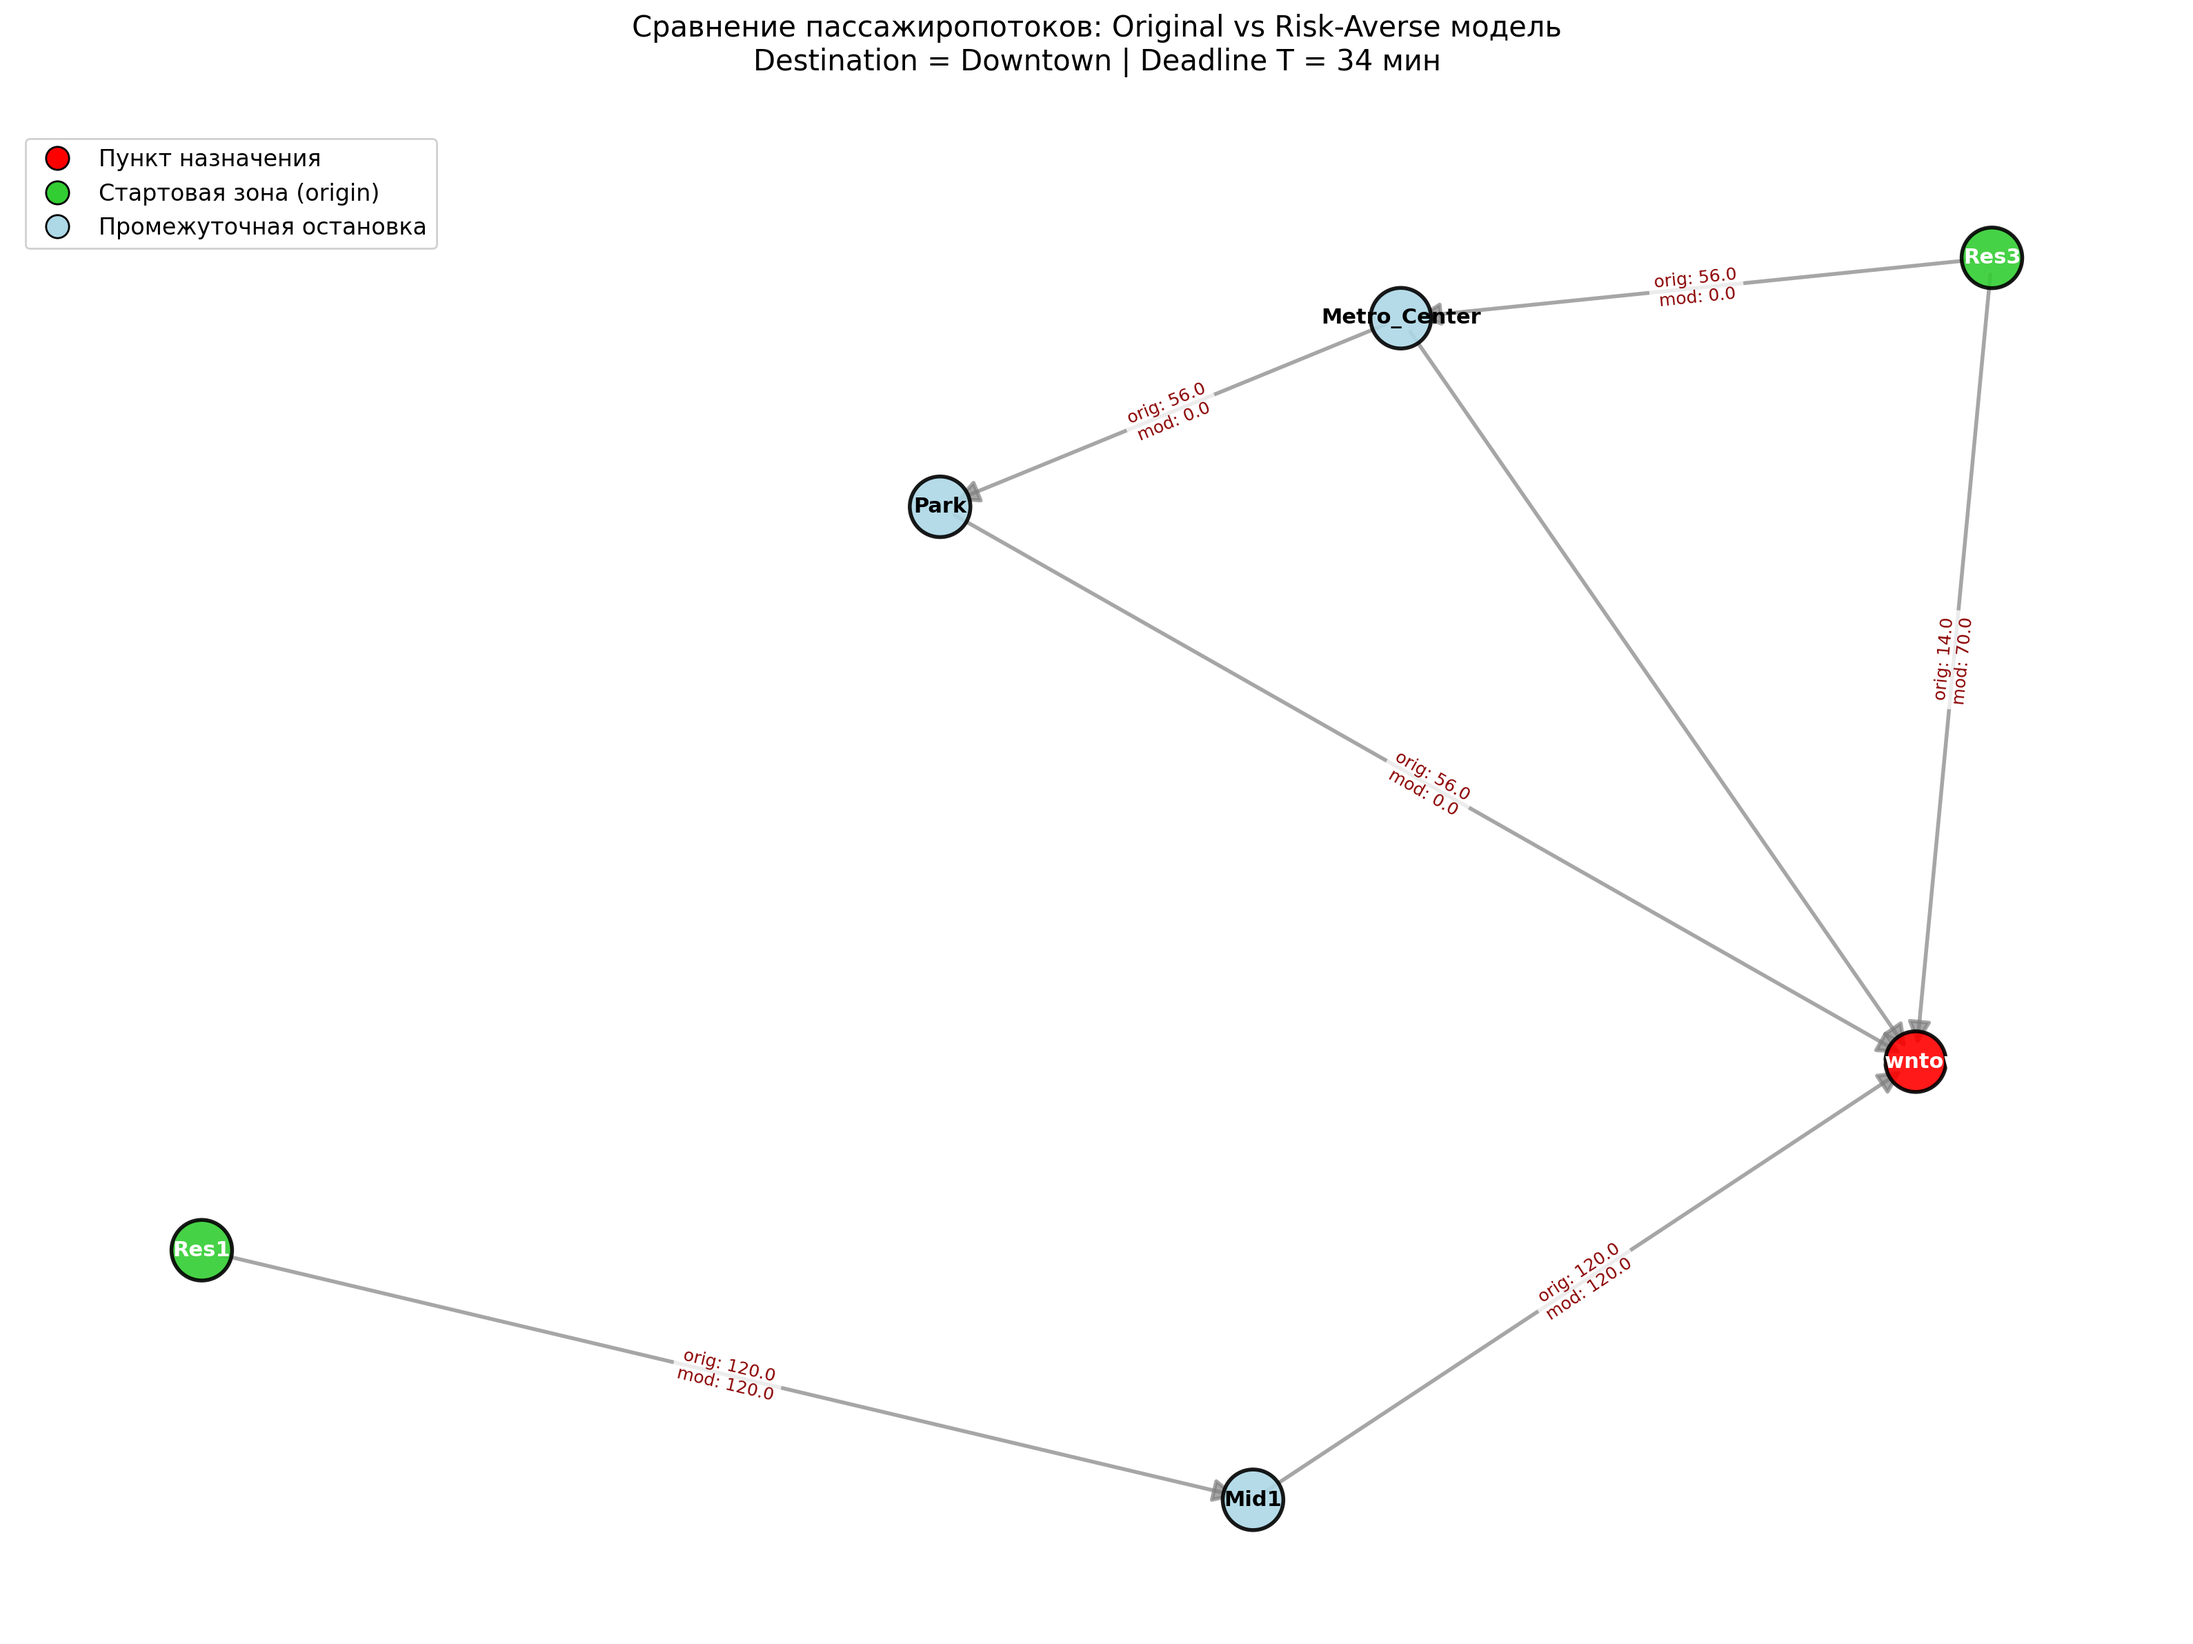
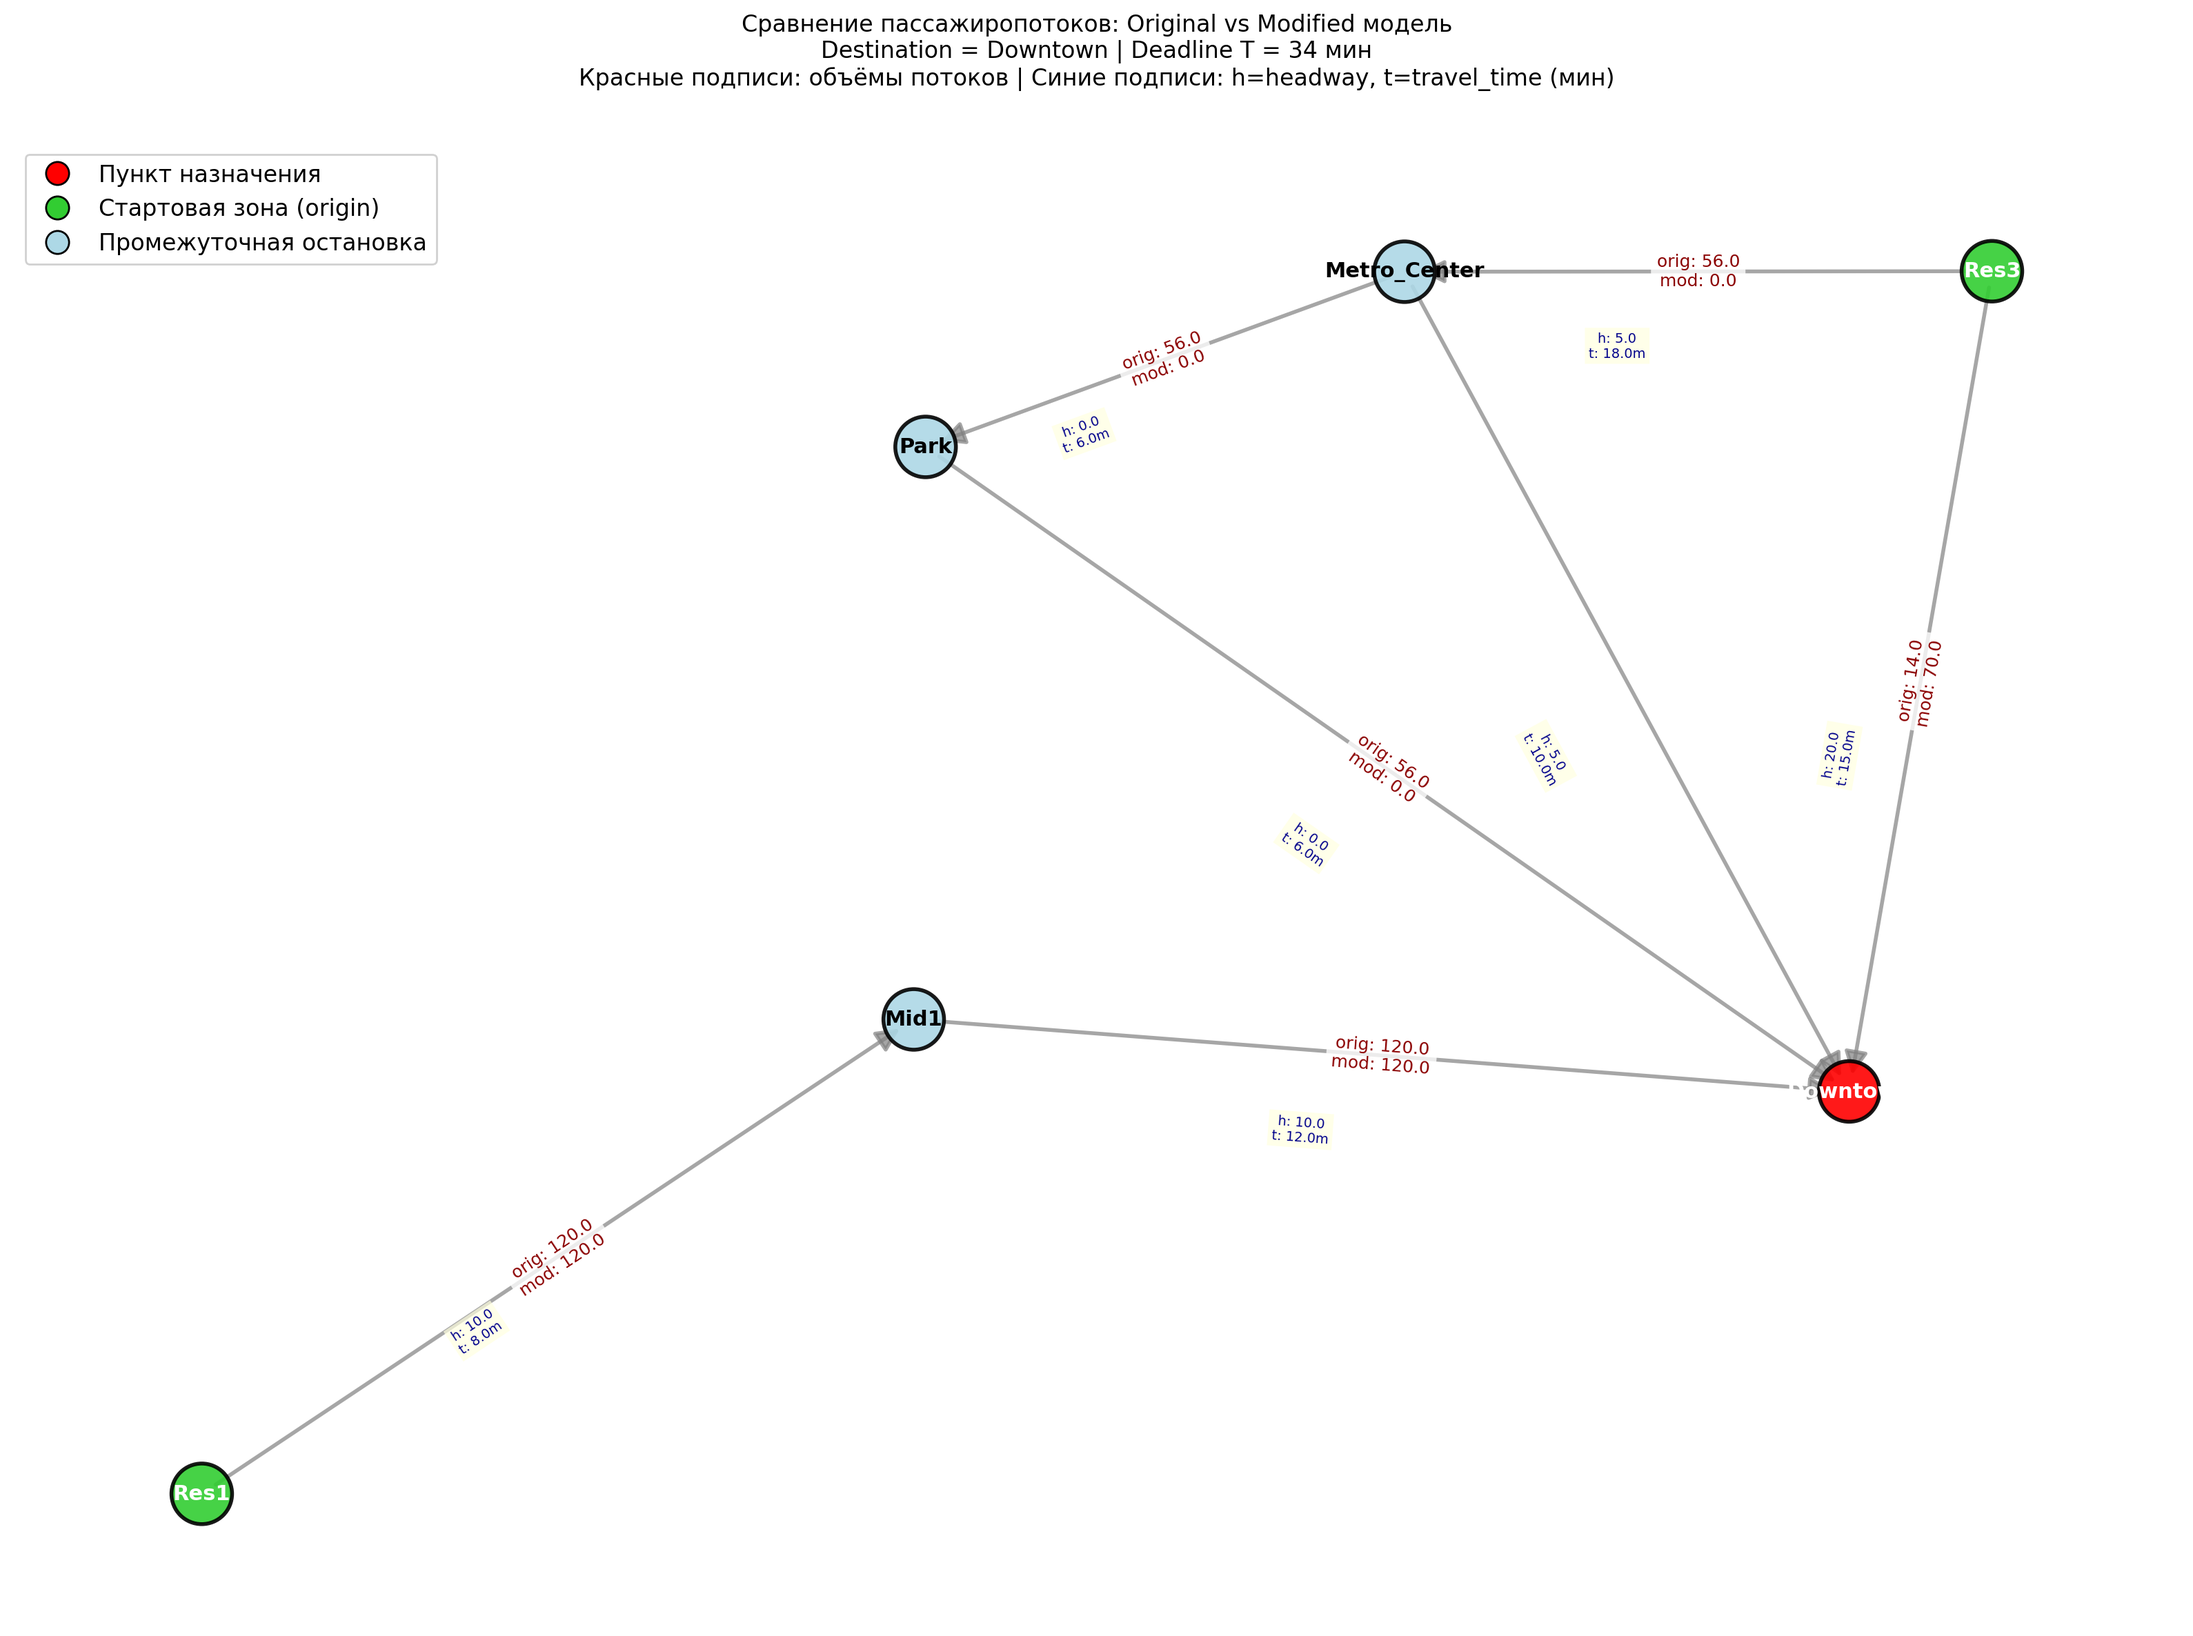
Fixed visualization

diff --git a/utils.py b/utils.py
@@ -387,10 +387,14 @@ def visualize_volumes(all_links, all_stops, volumes_orig, volumes_mod,
 
     G = nx.DiGraph()
 
-    for stop in all_stops:
-        G.add_node(stop)
+    link_attributes = {}
     for link in all_links:
-        G.add_edge(link.from_node, link.to_node, route=link.route_id, cost=link.travel_cost)
+        G.add_edge(link.from_node, link.to_node)
+        link_attributes[(link.from_node, link.to_node)] = {
+            'headway': link.headway,
+            'travel_cost': link.travel_cost,
+            'route_id': link.route_id
+        }
 
     origins = set()
     for orig, dest_dict in od_matrix.items():
@@ -423,7 +427,6 @@ def visualize_volumes(all_links, all_stops, volumes_orig, volumes_mod,
                            width=2,
                            alpha=0.7)
 
-
     intermediate_nodes = [node for node in G.nodes() if node != destination and node not in origins]
     if intermediate_nodes:
         nx.draw_networkx_labels(G, pos,
@@ -445,20 +448,43 @@ def visualize_volumes(all_links, all_stops, volumes_orig, volumes_mod,
                             font_weight='bold',
                             font_color='white')
 
-    edge_labels = {}
+    edge_labels_volumes = {}
     for from_node in volumes_orig.links:
         for to_node in volumes_orig.links[from_node]:
             v_orig = volumes_orig.links[from_node][to_node]
             v_mod = volumes_mod.links.get(from_node, {}).get(to_node, 0.0)
             if v_orig > 0.01 or v_mod > 0.01:
-                label = f"orig: {v_orig:.1f}\nmod: {v_mod:.1f}"
-                edge_labels[(from_node, to_node)] = label
+                edge_labels_volumes[(from_node, to_node)] = f"orig: {v_orig:.1f}\nmod: {v_mod:.1f}"
+
+    edge_labels_attributes = {}
+    for (from_node, to_node) in G.edges():
+        if (from_node, to_node) in link_attributes:
+            attrs = link_attributes[(from_node, to_node)]
+            headway = attrs['headway']
+            travel_cost = attrs['travel_cost']
+            
+            if headway < 0:
+                headway_str = "Inf"
+            else:
+                headway_str = f"{headway:.1f}"
+            
+            edge_labels_attributes[(from_node, to_node)] = f"h: {headway_str}\nt: {travel_cost:.1f}m"
 
     nx.draw_networkx_edge_labels(G, pos,
-                                 edge_labels=edge_labels,
+                                 edge_labels=edge_labels_volumes,
                                  font_size=9,
                                  font_color='darkred',
                                  bbox=dict(facecolor='white', edgecolor='none', alpha=0.8, pad=3))
+
+    pos_offset = {}
+    for node, (x, y) in pos.items():
+        pos_offset[node] = (x - 0.08, y - 0.08)
+
+    nx.draw_networkx_edge_labels(G, pos_offset,
+                                 edge_labels=edge_labels_attributes,
+                                 font_size=7,
+                                 font_color='darkblue',
+                                 bbox=dict(facecolor='lightyellow', edgecolor='none', alpha=0.7, pad=2))
 
     legend_elements = [
         Line2D([0], [0], marker='o', color='w', label='Пункт назначения',
@@ -470,9 +496,10 @@ def visualize_volumes(all_links, all_stops, volumes_orig, volumes_mod,
     ]
     plt.legend(handles=legend_elements, loc='upper left', fontsize=12, framealpha=0.9)
 
-    plt.title(f"Сравнение пассажиропотоков: Original vs Risk-Averse модель\n"
-              f"Destination = {destination} | Deadline T = {T} мин",
-              fontsize=15, pad=30)
+    plt.title(f"Сравнение пассажиропотоков: Original vs Modified модель\n"
+              f"Destination = {destination} | Deadline T = {T} мин\n"
+              f"Красные подписи: объёмы потоков | Синие подписи: h=headway, t=travel_time (мин)",
+              fontsize=12, pad=30)
 
     plt.axis('off')
     plt.tight_layout()
